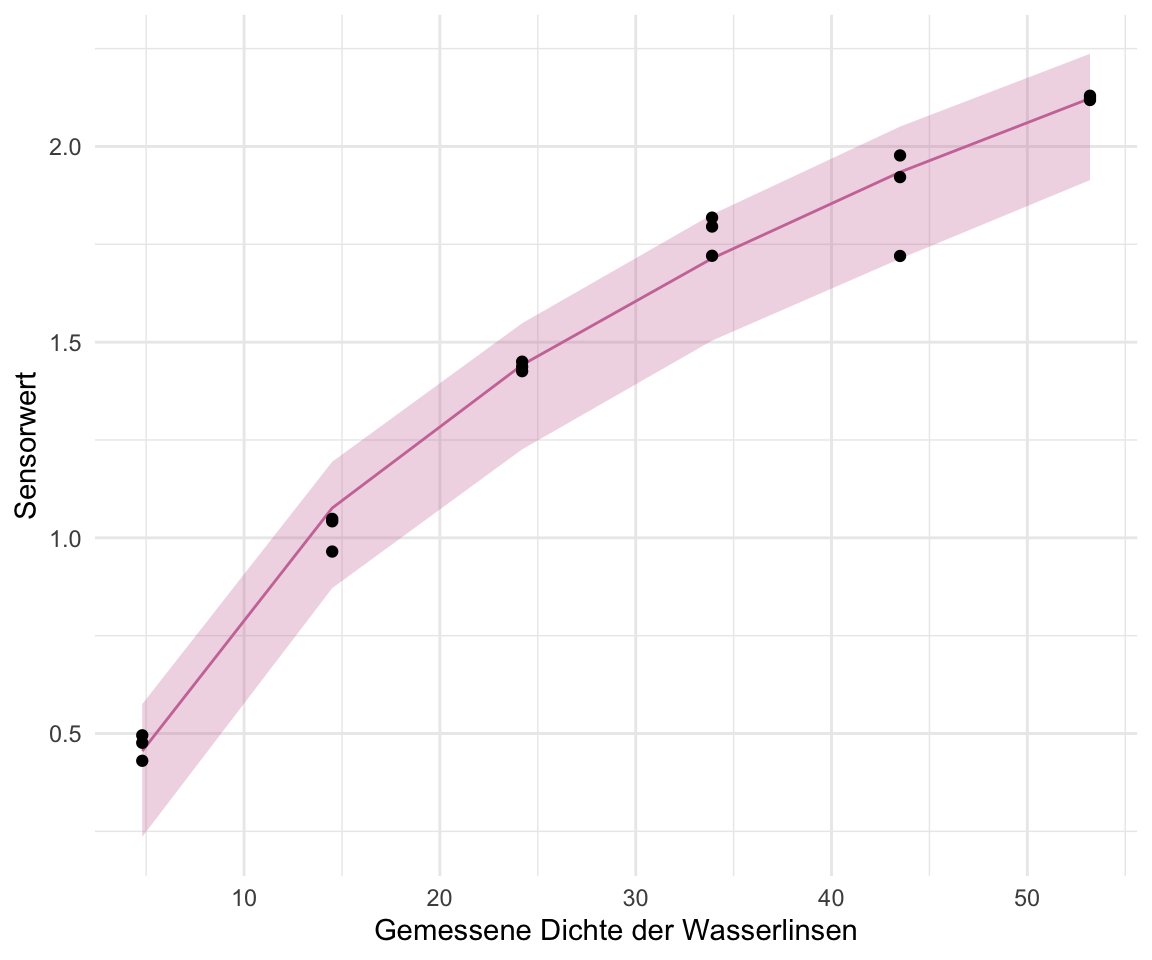
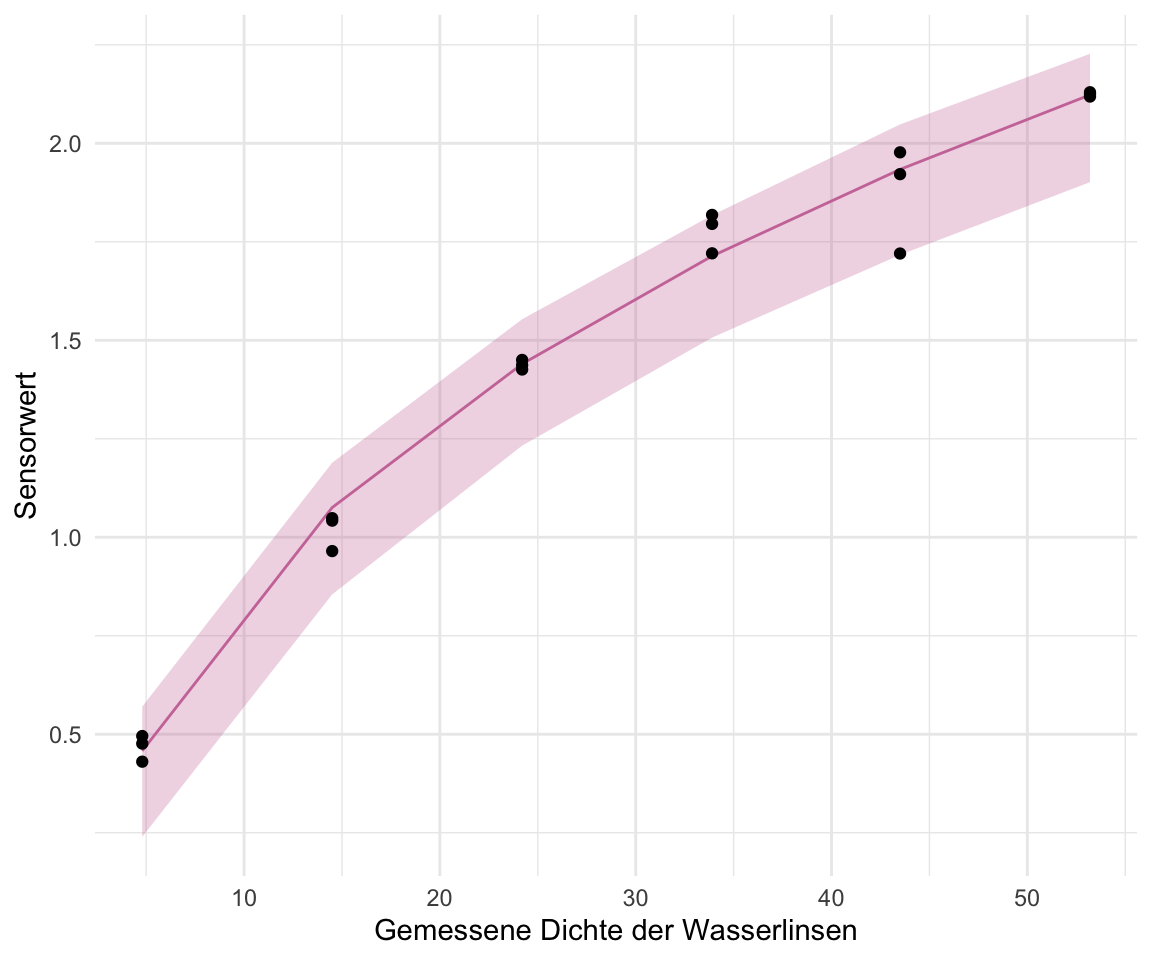
added text

diff --git a/docs/stat-modeling-non-linear.html b/docs/stat-modeling-non-linear.html
@@ -6,7 +6,7 @@
 
 <meta name="viewport" content="width=device-width, initial-scale=1.0, user-scalable=yes">
 
-<meta name="description" content="Ein Kochbuch mit Rezepten der Bio Data Science, Biostatistik, Biometrie und Statistik">
+<meta name="description" content="Ein Kochbuch mit Rezepten aus der Bio Data Science, Biostatistik, Biometrie und Statistik">
 
 <title>Bio Data Science - 54&nbsp; Nicht lineare Regression</title>
 <style>
@@ -838,7 +838,7 @@ window.Quarto = {
 </header>
 
 
-<p><em>Letzte Änderung am 29. February 2024 um 19:31:18</em></p>
+<p><em>Letzte Änderung am 08. March 2024 um 10:06:36</em></p>
 <blockquote class="blockquote">
 <p><em>“And you may ask yourself; Well… How did I get here?; And you may ask yourself; ‘How do I work this?’” — Talking Heads - Once in a Lifetime</em></p>
 </blockquote>
@@ -1369,7 +1369,7 @@ Tabelle&nbsp;54.2— Auszug aus Wasserlinsendatensatz.
 </figure>
 </div>
 </div>
-<p>Auch die Wasserlinsendaten wollen wir uns erstmal in einer Abbilung anschauen und dann sehen, ob wir eine Kurve durch die Punkte gelegt kriegen.</p>
+<p>Auch die Wasserlinsendaten wollen wir uns erstmal in einer Abbildung anschauen und dann sehen, ob wir eine Kurve durch die Punkte gelegt kriegen.</p>
 </section>
 <section id="visualisierung" class="level2 page-columns page-full" data-number="54.3">
 <h2 data-number="54.3" class="anchored" data-anchor-id="visualisierung"><span class="header-section-number">54.3</span> Visualisierung</h2>
@@ -1512,7 +1512,7 @@ Achieved convergence tolerance: 1.176e-06</code></pre>
 92.198  2.178 
  residual sum-of-squares: 4725115
 
-Number of iterations to convergence: 13 
+Number of iterations to convergence: 9 
 Achieved convergence tolerance: 1.49e-08</code></pre>
 </div>
 </div>
@@ -1732,23 +1732,23 @@ Abbildung&nbsp;54.11— Angepasste Kurve aus der Funktion <code>nls()</code> dar
 <pre><code># A tibble: 6 × 4
   median x2_5_percent x97_5_percent duckweeds_density
    &lt;dbl&gt;        &lt;dbl&gt;         &lt;dbl&gt;             &lt;dbl&gt;
-1  0.455        0.236         0.575               4.8
-2  1.08         0.871         1.19               14.5
+1  0.458        0.239         0.570               4.8
+2  1.08         0.855         1.19               14.5
 3  1.44         1.23          1.55               24.2
-4  1.71         1.50          1.83               33.9
-5  1.93         1.71          2.05               43.5
-6  2.12         1.91          2.24               53.2</code></pre>
+4  1.71         1.51          1.82               33.9
+5  1.93         1.72          2.05               43.5
+6  2.12         1.90          2.23               53.2</code></pre>
 </div>
 </div>
 <p>Aus der mittleren Abweichung des Medians zu der unteren 2.5% Grenze <code>x2_5_percent</code> sowie zu der oberen 97.5% Grenze <code>x97_5_percent</code> lässt sich leicht noch eine Konstante <span class="math inline">\(\phi\)</span> errechnen, die wir dann zu unserer mathematischen Formel ergänzen können. Dann hätten wir auch die mathematische Formel für die obere und untere Kurve des Vorhersageintervalls. Im Prinzip ist das Vorhersageintervall ja nur eine verschobene Kurve der ursprünglichen Geradengleichung. Wir subtrahieren und addieren also unser <span class="math inline">\(\phi\)</span> jeweils zu dem <span class="math inline">\(y\)</span>-Achsenabschnitt von <span class="math inline">\(-1.1468\)</span> aus dem <code>nls()</code>-Modell.</p>
 <div class="cell">
 <div class="sourceCode cell-code" id="cb58"><pre class="sourceCode r code-with-copy"><code class="sourceCode r"><span id="cb58-1"><a href="#cb58-1" aria-hidden="true" tabindex="-1"></a><span class="fu">with</span>(pred_plim_tbl, x2_5_percent <span class="sc">-</span> median) <span class="sc">%&gt;%</span> <span class="fu">mean</span>()</span></code><button title="In die Zwischenablage kopieren" class="code-copy-button"><i class="bi"></i></button></pre></div>
 <div class="cell-output cell-output-stdout">
-<pre><code>[1] -0.21336</code></pre>
+<pre><code>[1] -0.215256</code></pre>
 </div>
 <div class="sourceCode cell-code" id="cb60"><pre class="sourceCode r code-with-copy"><code class="sourceCode r"><span id="cb60-1"><a href="#cb60-1" aria-hidden="true" tabindex="-1"></a><span class="fu">with</span>(pred_plim_tbl, x97_5_percent <span class="sc">-</span> median) <span class="sc">%&gt;%</span> <span class="fu">mean</span>()</span></code><button title="In die Zwischenablage kopieren" class="code-copy-button"><i class="bi"></i></button></pre></div>
 <div class="cell-output cell-output-stdout">
-<pre><code>[1] 0.1145909</code></pre>
+<pre><code>[1] 0.1103921</code></pre>
 </div>
 </div>
 <p>Damit hätten wir dann für die 2.5% und 97.% Grenzen des Vorhersageintervalls folgende mathematische Formel. Ich ersetze hier einmal <span class="math inline">\(duckweeds\_density\)</span> durch <span class="math inline">\(x\)</span> um die Formel etwas aufzuräumen und zu kürzen.</p>
@@ -1791,23 +1791,23 @@ Abbildung&nbsp;54.12— Angepasste Kurve aus der Funktion <code>nls()</code> zus
 <pre><code># A tibble: 6 × 4
   median x2_5_percent x97_5_percent duckweeds_density
    &lt;dbl&gt;        &lt;dbl&gt;         &lt;dbl&gt;             &lt;dbl&gt;
-1  0.451        0.381         0.501               4.8
+1  0.450        0.386         0.498               4.8
 2  1.07         1.03          1.10               14.5
-3  1.44         1.40          1.46               24.2
+3  1.43         1.40          1.46               24.2
 4  1.71         1.67          1.74               33.9
 5  1.93         1.88          1.96               43.5
-6  2.12         2.06          2.16               53.2</code></pre>
+6  2.11         2.06          2.16               53.2</code></pre>
 </div>
 </div>
 <p>Aus der mittleren Abweichung des Medians zu der unteren 2.5% Grenze <code>x2_5_percent</code> sowie zu der oberen 97.5% Grenze <code>x97_5_percent</code> lässt sich leicht noch eine Konstante <span class="math inline">\(\phi\)</span> errechnen, die wir dann zu unserer mathematischen Formel ergänzen können. Dann hätten wir auch die mathematische Formel für die obere und untere Kurve des Konfidenzintervalls. Im Prinzip ist das Konfidenzintervall ja nur eine verschobene Kurve der ursprünglichen Geradengleichung. Wir subtrahieren und addieren also unser <span class="math inline">\(\phi\)</span> jeweils zu dem <span class="math inline">\(y\)</span>-Achsenabschnitt von <span class="math inline">\(-1.1468\)</span> aus dem <code>nls()</code>-Modell.</p>
 <div class="cell">
 <div class="sourceCode cell-code" id="cb65"><pre class="sourceCode r code-with-copy"><code class="sourceCode r"><span id="cb65-1"><a href="#cb65-1" aria-hidden="true" tabindex="-1"></a><span class="fu">with</span>(pred_clim_tbl, x2_5_percent <span class="sc">-</span> median) <span class="sc">%&gt;%</span> <span class="fu">mean</span>()</span></code><button title="In die Zwischenablage kopieren" class="code-copy-button"><i class="bi"></i></button></pre></div>
 <div class="cell-output cell-output-stdout">
-<pre><code>[1] -0.05004566</code></pre>
+<pre><code>[1] -0.04402886</code></pre>
 </div>
 <div class="sourceCode cell-code" id="cb67"><pre class="sourceCode r code-with-copy"><code class="sourceCode r"><span id="cb67-1"><a href="#cb67-1" aria-hidden="true" tabindex="-1"></a><span class="fu">with</span>(pred_clim_tbl, x97_5_percent <span class="sc">-</span> median) <span class="sc">%&gt;%</span> <span class="fu">mean</span>()</span></code><button title="In die Zwischenablage kopieren" class="code-copy-button"><i class="bi"></i></button></pre></div>
 <div class="cell-output cell-output-stdout">
-<pre><code>[1] 0.03483676</code></pre>
+<pre><code>[1] 0.03642596</code></pre>
 </div>
 </div>
 <p>Damit hätten wir dann für die 2.5% und 97.% Grenzen des Konfidenzintervalls folgende mathematische Formel. Ich ersetze hier einmal <span class="math inline">\(duckweeds\_density\)</span> durch <span class="math inline">\(x\)</span> um die Formel etwas aufzuräumen und zu kürzen.</p>
@@ -2085,7 +2085,7 @@ Number of Fisher Scoring iterations: 2</code></pre>
 <div class="sourceCode cell-code" id="cb86"><pre class="sourceCode r code-with-copy"><code class="sourceCode r"><span id="cb86-1"><a href="#cb86-1" aria-hidden="true" tabindex="-1"></a>mfp_fit<span class="sc">$</span>formula</span></code><button title="In die Zwischenablage kopieren" class="code-copy-button"><i class="bi"></i></button></pre></div>
 <div class="cell-output cell-output-stdout">
 <pre><code>weight ~ I((age/10)^2)
-&lt;environment: 0x127ead4c0&gt;</code></pre>
+&lt;environment: 0x12e252e10&gt;</code></pre>
 </div>
 </div>
 <p>Nun haben wir erstmal die Informationen über das Alter und die Potenz <span class="math inline">\(a\)</span> und wie diese beiden miteinander zusammengehören. Jetzt fehlen aber noch die Koeffizienten für die Steigung und den y-Achsenabschnitt. Die haben wir auch oben in der <code>summary()</code> gesehen, aber wir können uns die Werte auch separat anzeigen lassen.</p>

diff --git a/docs/stat-modeling-R.html b/docs/stat-modeling-R.html
@@ -782,7 +782,9 @@ window.Quarto = {
   <li><a href="#genutzte-r-pakete" id="toc-genutzte-r-pakete" class="nav-link active" data-scroll-target="#genutzte-r-pakete"><span class="header-section-number">45.1</span> Genutzte R Pakete</a></li>
   <li><a href="#daten" id="toc-daten" class="nav-link" data-scroll-target="#daten"><span class="header-section-number">45.2</span> Daten</a></li>
   <li><a href="#genutzte-r-pakete-1" id="toc-genutzte-r-pakete-1" class="nav-link" data-scroll-target="#genutzte-r-pakete-1"><span class="header-section-number">45.3</span> Genutzte R Pakete</a></li>
-  <li><a href="#generalisierung-von-lm-zu-glm-und-glmer" id="toc-generalisierung-von-lm-zu-glm-und-glmer" class="nav-link" data-scroll-target="#generalisierung-von-lm-zu-glm-und-glmer"><span class="header-section-number">45.4</span> Generalisierung von <code>lm()</code> zu <code>glm()</code> und <code>[g]lmer()</code></a></li>
+  <li><a href="#konfidenzintervall" id="toc-konfidenzintervall" class="nav-link" data-scroll-target="#konfidenzintervall"><span class="header-section-number">45.4</span> 95% Konfidenzintervall</a></li>
+  <li><a href="#prädiktionsintervall" id="toc-prädiktionsintervall" class="nav-link" data-scroll-target="#prädiktionsintervall"><span class="header-section-number">45.5</span> Prädiktionsintervall</a></li>
+  <li><a href="#generalisierung-von-lm-zu-glm-und-glmer" id="toc-generalisierung-von-lm-zu-glm-und-glmer" class="nav-link" data-scroll-target="#generalisierung-von-lm-zu-glm-und-glmer"><span class="header-section-number">45.6</span> Generalisierung von <code>lm()</code> zu <code>glm()</code> und <code>[g]lmer()</code></a></li>
   </ul>
 <div class="toc-actions"><ul><li><a href="https://github.com/jkruppa/jkruppa.github.io/edit/master/stat-modeling-R.qmd" class="toc-action"><i class="bi bi-github"></i>Seite editieren</a></li><li><a href="https://github.com/jkruppa/jkruppa.github.io/issues/new" class="toc-action"><i class="bi empty"></i>Problem melden</a></li><li><a href="https://github.com/jkruppa/jkruppa.github.io/blob/master/stat-modeling-R.qmd" class="toc-action"><i class="bi empty"></i>Quellcode anzeigen</a></li></ul></div></nav>
     </div>
@@ -808,7 +810,7 @@ window.Quarto = {
 </header>
 
 
-<p><em>Letzte Änderung am 07. March 2024 um 21:04:03</em></p>
+<p><em>Letzte Änderung am 08. March 2024 um 13:32:57</em></p>
 <blockquote class="blockquote">
 <p><em>“Ich weiß nicht weiter; Ich will mich verändern; Doch wie fang ich’s an?” — Tocotronic, Die Unendlichkeit</em></p>
 </blockquote>
@@ -850,8 +852,18 @@ window.Quarto = {
 <li>Das <a href="https://tidymodels.tidymodels.org/">R Paket <code>{tidymodels}</code></a> nutzen wir als <em>das</em> R Paket um mit Modellen umgehen zu können und eine <em>Vorhersage neuer Daten</em> zu berechnen. Das Paket <code>{tidymodels}</code> ist wie das Paket <code>{tidyverse}</code> eine Sammlung an anderen R Paketen, die wir brauchen werden.</li>
 </ul>
 </section>
-<section id="generalisierung-von-lm-zu-glm-und-glmer" class="level2" data-number="45.4">
-<h2 data-number="45.4" class="anchored" data-anchor-id="generalisierung-von-lm-zu-glm-und-glmer"><span class="header-section-number">45.4</span> Generalisierung von <code>lm()</code> zu <code>glm()</code> und <code>[g]lmer()</code></h2>
+<section id="konfidenzintervall" class="level2" data-number="45.4">
+<h2 data-number="45.4" class="anchored" data-anchor-id="konfidenzintervall"><span class="header-section-number">45.4</span> 95% Konfidenzintervall</h2>
+</section>
+<section id="prädiktionsintervall" class="level2" data-number="45.5">
+<h2 data-number="45.5" class="anchored" data-anchor-id="prädiktionsintervall"><span class="header-section-number">45.5</span> Prädiktionsintervall</h2>
+<p><a href="https://www.bryanshalloway.com/2021/04/21/quantile-regression-forests-for-prediction-intervals/">Quantile Regression Forests for Prediction Intervals</a></p>
+<p><a href="https://robjhyndman.com/hyndsight/intervals/">The difference between prediction intervals and confidence intervals</a></p>
+<p><a href="https://robjhyndman.com/hyndsight/forecasting-pvalues.html">P-values for prediction intervals</a> machen keinen Sinn</p>
+<p><a href="https://robjhyndman.com/hyndsight/ozone-hole-anomaly.html">How NASA didn’t discover the hole in the ozone layer</a></p>
+</section>
+<section id="generalisierung-von-lm-zu-glm-und-glmer" class="level2" data-number="45.6">
+<h2 data-number="45.6" class="anchored" data-anchor-id="generalisierung-von-lm-zu-glm-und-glmer"><span class="header-section-number">45.6</span> Generalisierung von <code>lm()</code> zu <code>glm()</code> und <code>[g]lmer()</code></h2>
 <ul>
 <li>Die Funktion <code>lm()</code> nutzen wir, wenn das Outcome <span class="math inline">\(y\)</span> einer Normalverteilung folgt.</li>
 <li>Die Funktion <code>glm()</code> nutzen wir, wenn das Outcome <span class="math inline">\(y\)</span> einer <em>andere</em> Verteilung folgt.</li>

diff --git a/docs/stat-tests-effect.html b/docs/stat-tests-effect.html
@@ -848,7 +848,7 @@ window.Quarto = {
 </header>
 
 
-<p><em>Letzte Änderung am 08. March 2024 um 21:00:10</em></p>
+<p><em>Letzte Änderung am 09. March 2024 um 10:09:32</em></p>
 <blockquote class="blockquote">
 <p><em>“Alles, was wir hören, ist eine Meinung, keine Tatsache. Alles, was wir sehen, ist eine Perspektive, nicht die Wahrheit.” — Marcus Aurelius, Meditationen</em></p>
 </blockquote>

diff --git a/docs/index.html b/docs/index.html
@@ -784,7 +784,7 @@ window.Quarto = {
     <div>
     <div class="quarto-title-meta-heading">Veröffentlichungsdatum</div>
     <div class="quarto-title-meta-contents">
-      <p class="date">7. März 2024</p>
+      <p class="date">9. März 2024</p>
     </div>
   </div>
   
